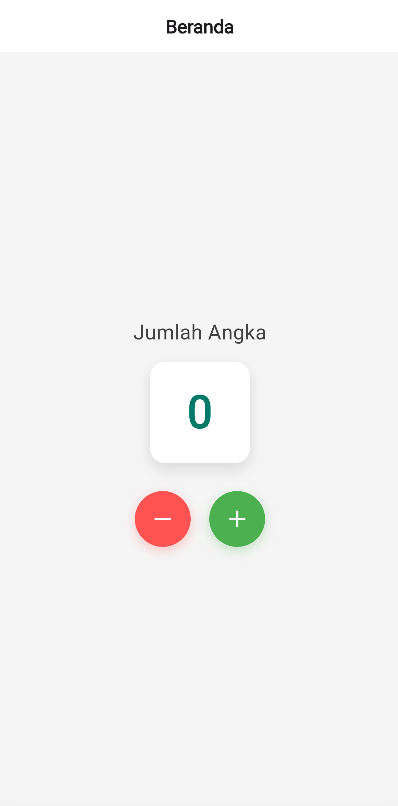
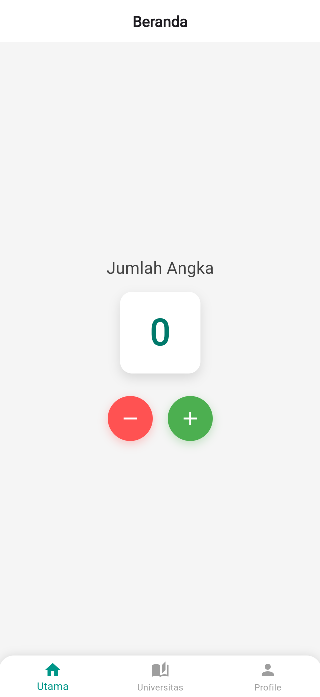
Membuat Halaman API

diff --git a/lib/pages/halaman_universitas.dart b/lib/pages/halaman_universitas.dart
@@ -1,0 +1,102 @@
+import 'package:flutter/material.dart';
+import 'package:http/http.dart' as http;
+import 'dart:convert';
+
+
+class HalamanUniversitas extends StatefulWidget {
+  const HalamanUniversitas({super.key});
+
+  @override
+  _HalamanUniversitasState createState() => _HalamanUniversitasState();
+}
+
+class _HalamanUniversitasState extends State<HalamanUniversitas> {
+  List universitas = [];
+  bool loading = true;
+
+  Future<void> fetchUniversitas() async {
+    setState(() {
+      loading = true;
+    });
+
+    final response = await http.get(Uri.parse('http://universities.hipolabs.com/search?country=Indonesia'));
+
+    if (response.statusCode == 200) {
+      List data = jsonDecode(response.body);
+
+      data.sort((a, b) => (a['name'] ?? '').compareTo(b['name'] ?? ''));
+
+      setState(() {
+        universitas = data;
+        loading = false;
+      });
+    } else {
+      setState(() {
+        loading = false;
+      });
+    }
+  }
+
+  @override
+  void initState() {
+    super.initState();
+    fetchUniversitas();
+  }
+
+  @override
+  Widget build(BuildContext context) {
+    return Scaffold(
+      backgroundColor: Colors.grey[100],
+
+      body: loading
+          ? const Center(child: CircularProgressIndicator())
+          : ListView.builder(
+        padding: const EdgeInsets.all(16),
+        itemCount: universitas.length,
+        itemBuilder: (context, index) {
+          final univ = universitas[index];
+          final namaUniv = univ['name'] ?? '';
+          final webPage = (univ['web_pages'] != null && univ['web_pages'].isNotEmpty)
+              ? univ['web_pages'][0]
+              : '';
+
+          return Container(
+            margin: const EdgeInsets.only(bottom: 12),
+            padding: const EdgeInsets.all(16),
+            decoration: BoxDecoration(
+              color: Colors.white, // CONTAINER tetap putih
+              borderRadius: BorderRadius.circular(12),
+              boxShadow: [
+                BoxShadow(
+                  color: Colors.black12,
+                  blurRadius: 6,
+                  offset: Offset(0, 2),
+                ),
+              ],
+            ),
+            child: Column(
+              crossAxisAlignment: CrossAxisAlignment.start,
+              children: [
+                Text(
+                  namaUniv,
+                  style: const TextStyle(
+                    fontSize: 18,
+                    fontWeight: FontWeight.bold,
+                  ),
+                ),
+                const SizedBox(height: 8),
+                Text(
+                  webPage,
+                  style: const TextStyle(
+                    color: Colors.blue,
+                    fontSize: 14,
+                  ),
+                ),
+              ],
+            ),
+          );
+        },
+      ),
+    );
+  }
+}

diff --git a/lib/main.dart b/lib/main.dart
@@ -1,5 +1,6 @@
 import 'package:flutter/material.dart';
 import 'pages/halaman_utama.dart';
+import 'pages/halaman_universitas.dart';
 import 'pages/halaman_profile.dart';
 
 void main() => runApp(const MyApp());
@@ -10,7 +11,7 @@ class MyApp extends StatelessWidget {
   @override
   Widget build(BuildContext context) {
     return MaterialApp(
-      title: 'Aplikasi Minimalis',
+      title: 'Flutter 3 Hal - Kelompok 5',
       theme: ThemeData(
         scaffoldBackgroundColor: Colors.grey[100],
         textTheme: const TextTheme(
@@ -35,11 +36,13 @@ class _HomeScreenState extends State<HomeScreen> {
 
   final List<Widget> _pages = [
     HalamanUtama(),
+    HalamanUniversitas(),
     HalamanProfile(),
   ];
 
   final List<String> _titles = [
     'Beranda',
+    'Daftar Universitas di Indonesia',
     'Profile',
   ];
 
@@ -76,6 +79,7 @@ class _HomeScreenState extends State<HomeScreen> {
             onTap: (index) => setState(() => _currentIndex = index),
             items: const [
               BottomNavigationBarItem(icon: Icon(Icons.home), label: 'Utama'),
+              BottomNavigationBarItem(icon: Icon(Icons.auto_stories), label: 'Universitas'),
               BottomNavigationBarItem(icon: Icon(Icons.person), label: 'Profile'),
             ],
           ),

diff --git a/README.md b/README.md
@@ -20,6 +20,9 @@ Aplikasi ini berisi 3 halaman, yaitu:
 ### Halaman Counter
 ![Counter](screenshot/counter.png)
 
+### Halaman Counter
+![Counter](screenshot/universitas.png)
+
 ### Halaman Profile
 ![Profile](screenshot/profile.png)
 
